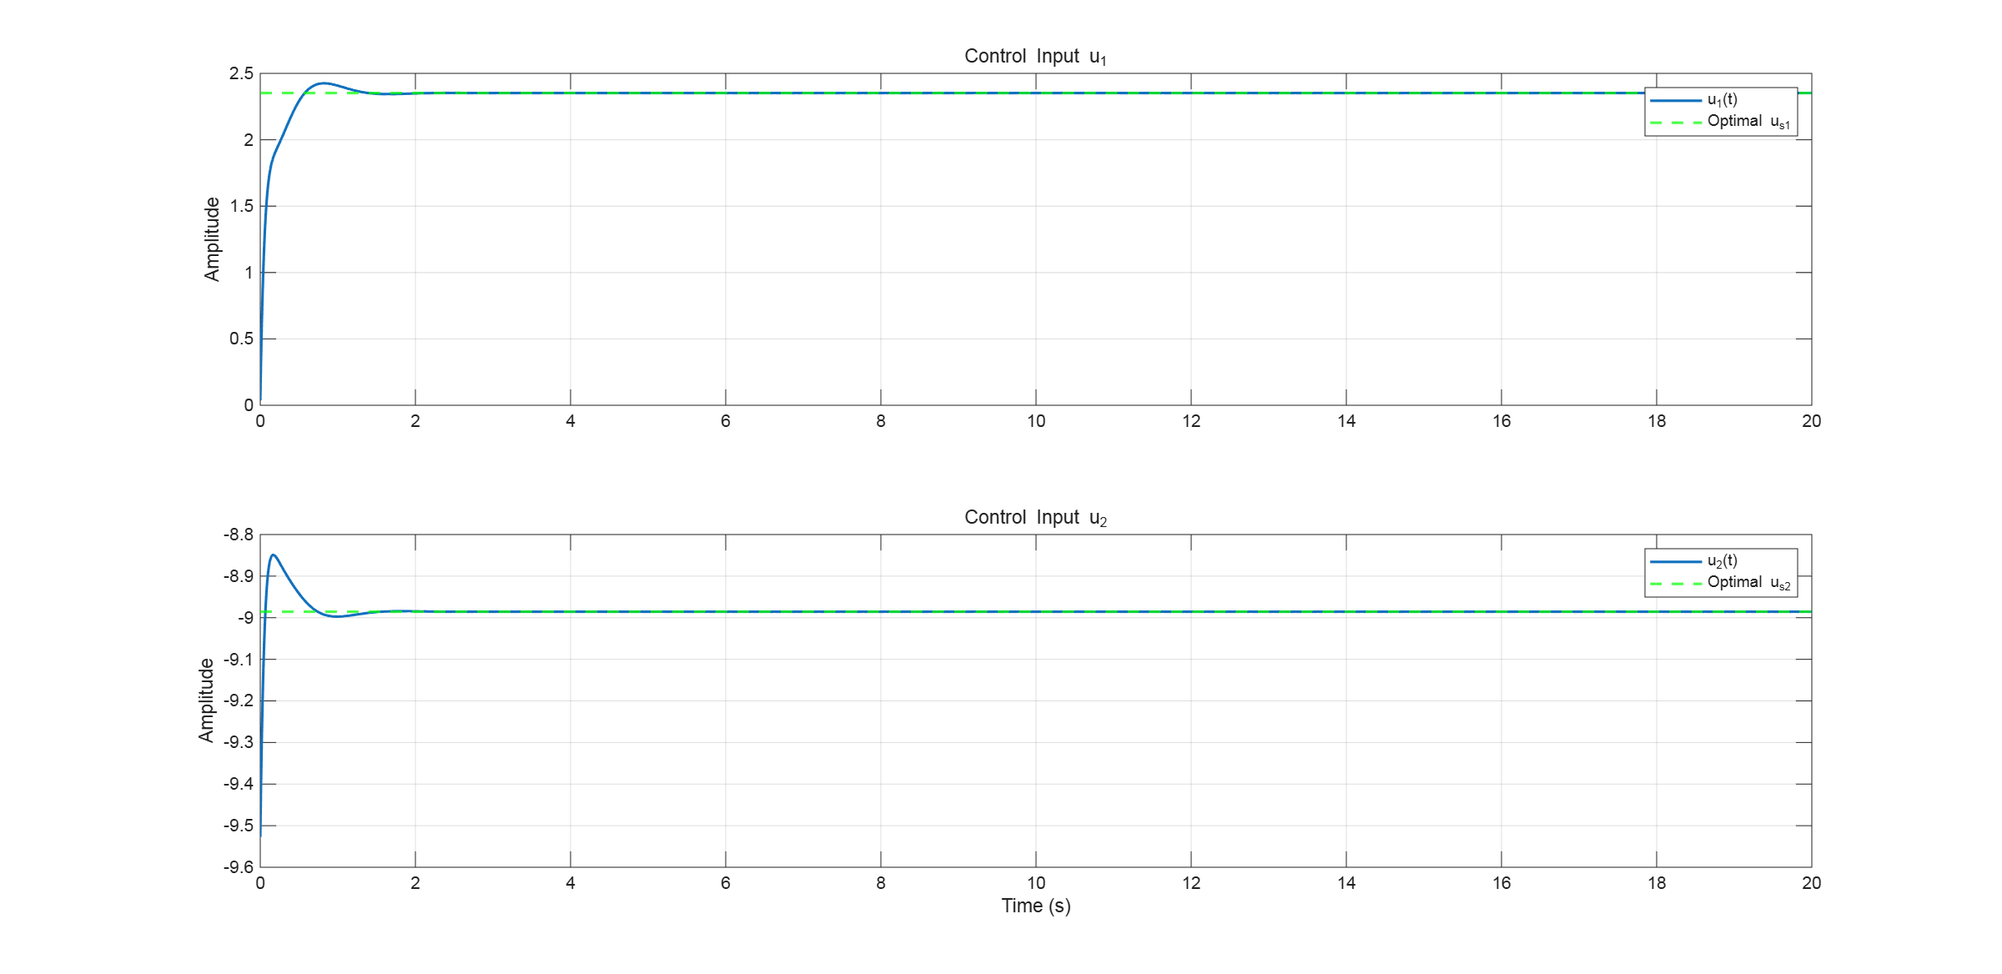
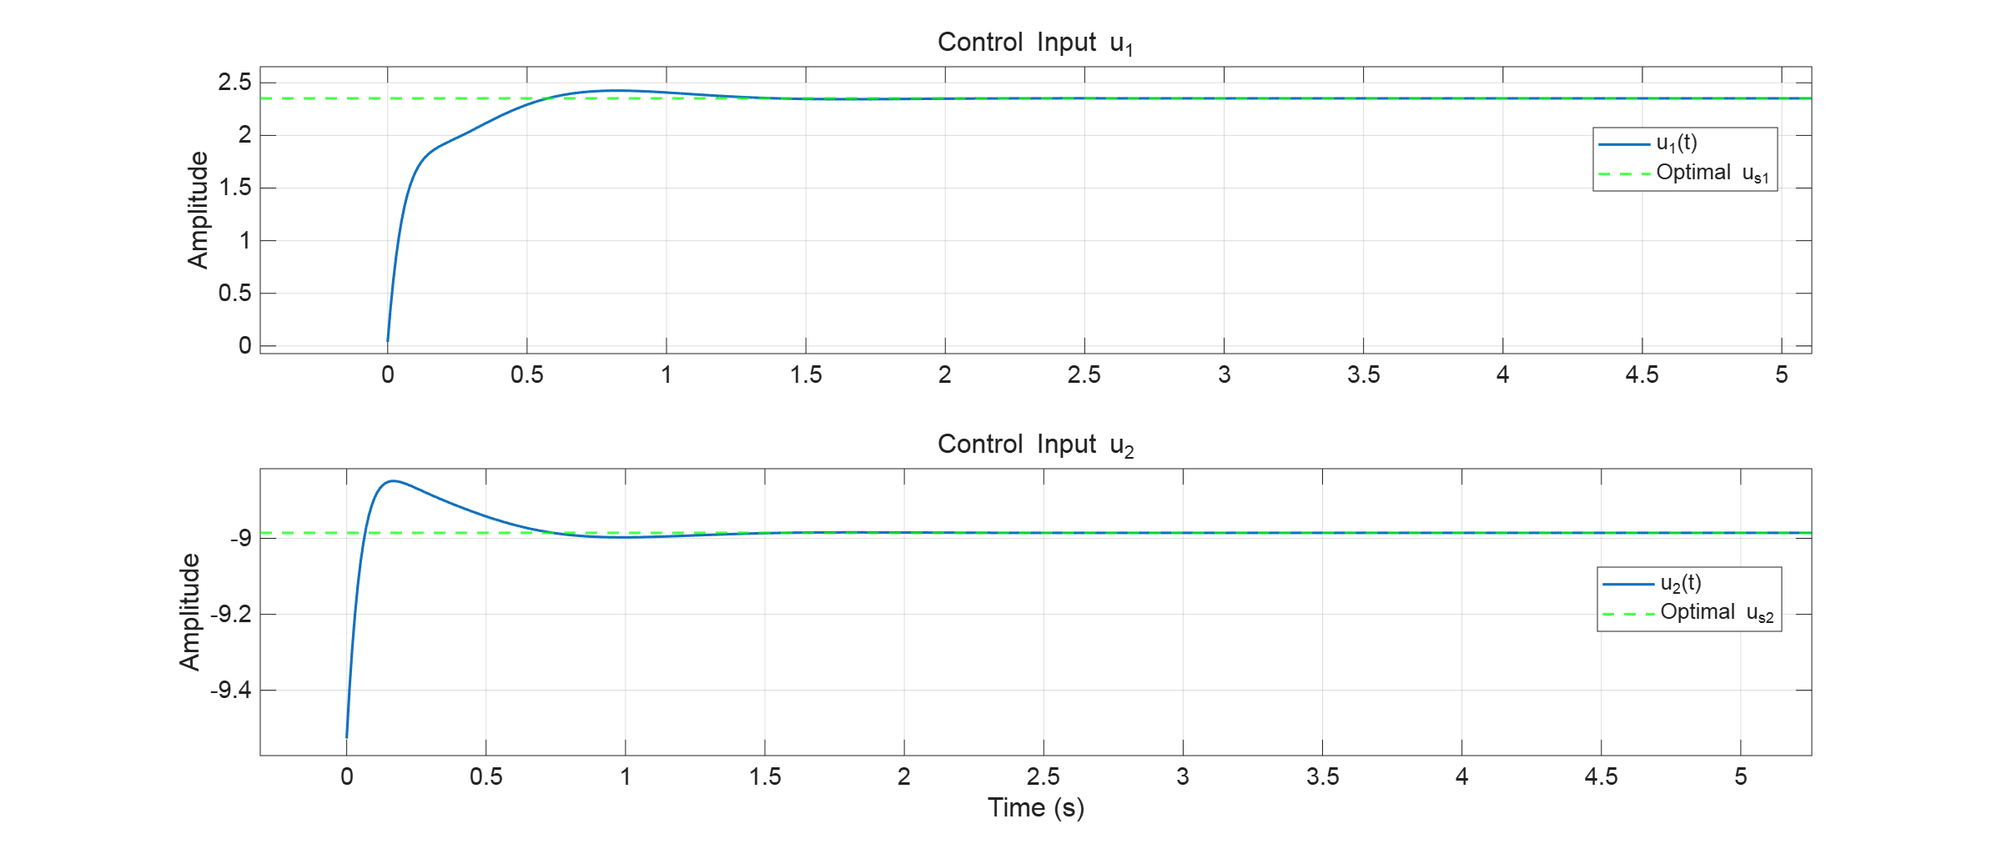
补充任务1的readme，更新任务6

diff --git a/task6/task6_state_control_optimization.m b/task6/task6_state_control_optimization.m
@@ -12,6 +12,8 @@
 % - Tracking/Regulation Control Law: Chapter 9
 
 clear; clc; close all;
+set(0, 'defaultAxesFontSize', 14); % Affects the scale and labels on the axes
+set(0, 'defaultTextFontSize', 14);  % Affects text such as titles, axis labels, legends, etc.
 
 %% 1. System Definition and Parameters
 % --- User-specific parameters (a=8, b=4, c=0, d=1) ---

diff --git a/task6/task6_readme.md b/task6/task6_readme.md
@@ -7,32 +7,66 @@ Task 6: State Regulation and Optimization Report
 
 ## Introduction
 
-The primary objective of Task 6 is to investigate the direct regulation of the system's four internal state variables, rather than solely controlling the outputs. Specifically, the goal is to maintain the state vector $x$ at a specific steady-state setpoint $x_{sp} = [0, 0.5, -0.4, 0.3]^T$. This presents a more challenging scenario than output regulation because the number of state variables (four) exceeds the number of control inputs (two), leading to an overdetermined system in terms of equilibrium constraints. Consequently, the task requires a rigorous feasibility analysis to determine if the target state is physically attainable. Upon confirming that the exact target is unreachable due to the system's physical structure, the problem transforms into an optimization challenge. The aim shifts to finding the optimal reachable steady state $x_s^*$ that minimizes a weighted quadratic cost function $J(x_s)$, balancing the errors between different states according to their importance derived from the matriculation number parameters.
+Task 6's primary objective extends beyond the study of control outputs to encompass the direct regulation of the system's four internal state variables. Specifically, the state vector $x$ must be maintained at a specific steady-state setpoint $x_{sp} = [0, 0.5, -0.4, 0.3]^T$. Consequently, this task requires rigorous feasibility analysis to establish whether the target state is physically attainable. If it is confirmed that precise attainment of the target is impossible due to the system's physical structure, the problem transforms into an optimisation task: finding the optimal reachable steady state $x_s^*$ that minimises the weighted quadratic cost function $J(x_s)$, thereby balancing errors across different states.
 
-> 任务6的主要目标是研究系统四个内部状态变量的直接调节，而不仅仅是控制输出。具体而言，目标是将状态向量 $x$ 维持在特定的稳态设定点 $x_{sp} = [0, 0.5, -0.4, 0.3]^T$。这比输出调节更具挑战性，因为状态变量的数量（4个）超过了控制输入的数量（2个），导致在平衡约束方面出现超定系统。因此，该任务需要进行严格的可行性分析，以确定目标状态在物理上是否可达。在确认由于系统的物理结构导致无法精确达到目标后，该问题转化为一个优化挑战。目标转变为寻找最优的可达稳态 $x_s^*$，使其最小化加权二次代价函数 $J(x_s)$，根据学号参数导出的重要性来权衡不同状态之间的误差。
+> 任务6的主要目标不仅仅是研究控制输出，而且要研究系统四个内部状态变量的直接调节。具体而言，需要将状态向量 $x$ 维持在特定的稳态设定点 $x_{sp} = [0, 0.5, -0.4, 0.3]^T$。因此，该任务需要进行严格的可行性分析，以确定目标状态在物理上是否可达。如果确认由于系统的物理结构导致无法精确达到目标后，该问题将转化为一个优化问题，寻找最优的可达稳态 $x_s^*$，使其最小化加权二次代价函数 $J(x_s)$来权衡不同状态之间的误差。
 
 ## Tasks Solvement
 
 
 
-The solution strategy begins with a fundamental analysis of the system's equilibrium points based on the linear system theory presented in **Chapter 7**. For a linear time-invariant system described by $\dot{x} = Ax + Bu$, a steady state implies that the rate of change of the state vector is zero. Therefore, to maintain the system at the target setpoint $x_{sp}$, there must exist a constant control input $u_{ss}$ that satisfies the equilibrium equation $0 = A x_{sp} + B u_{ss}$. This can be rearranged into a linear algebraic form $B u_{ss} = -A x_{sp}$. Using MATLAB, we analyzed the rank of the control input matrix $B$ and the augmented matrix $[B, -A x_{sp}]$. The results indicated that while the rank of $B$ is 2, the rank of the augmented matrix is 3. According to the Rouché–Capelli theorem, this discrepancy confirms that the target vector $-A x_{sp}$ does not lie within the column space of $B$, rendering the exact regulation to $x_{sp}$ theoretically infeasible1.
+First, a fundamental analysis of the system's equilibrium point is conducted. For a linear time-invariant system described by $\dot{x} = Ax + Bu$, steady state implies that the rate of change of the state vector is zero. Therefore, to maintain the system at the target setpoint $x_{sp}$, a constant control input $u_{ss}$ must exist that satisfies the equilibrium Equation（）
 
-> 解决策略首先基于**第7章**中介绍的线性系统理论，对系统的平衡点进行基础分析。对于由 $\dot{x} = Ax + Bu$ 描述的线性时不变系统，稳态意味着状态向量的变化率为零。因此，为了将系统维持在目标设定点 $x_{sp}$，必须存在满足平衡方程 $0 = A x_{sp} + B u_{ss}$ 的恒定控制输入 $u_{ss}$。这可以重排为线性代数形式 $B u_{ss} = -A x_{sp}$。利用 MATLAB，我们分析了控制输入矩阵 $B$ 和增广矩阵 $[B, -A x_{sp}]$ 的秩。结果表明，虽然 $B$ 的秩为 2，但增广矩阵的秩为 3。根据鲁谢-卡佩利定理（Rouché–Capelli theorem），这一差异证实了目标向量 $-A x_{sp}$ 不在 $B$ 的列空间内，使得精确调节到 $x_{sp}$ 在理论上不可行 2。
+$0 = Ax_{sp} + Bu_{ss}$.
 
-Given the infeasibility of the original target, we formulated a constrained optimization problem to find the best achievable steady state. We defined a cost function $J(x_s) = \frac{1}{2}(x_s - x_{sp})^T W (x_s - x_{sp})$, where $W$ is a diagonal weight matrix derived from the student ID parameters ($a=8, b=4, c=0, d=1$), resulting in $W = \text{diag}(9, 5, 1, 2)$. This formulation draws parallels to the **Quadratic Optimal Control (LQR)** concepts discussed in **Chapter 8**, where a weighted quadratic form is used to penalize deviations3. To solve this, we derived the mapping between steady-state input and state using the relationship $x_s = -A^{-1}B u_s$, denoting $M = -A^{-1}B$. Substituting this into the cost function transforms the problem into an unconstrained minimization with respect to the input $u_s$. By setting the gradient of the objective function to zero, we derived the analytical solution for the optimal steady-state input as $u_s^* = (M^T W M)^{-1} M^T W x_{sp}$. Using MATLAB matrix operations, the optimal steady state $x_s^*$ was calculated, resulting in a minimum cost value of approximately $0.218$. The numerical results showed that states with higher weights (e.g., $x_1$ with weight 9) converged very close to the target, while states with lower weights (e.g., $x_3$ with weight 1) exhibited larger deviations, validating the optimization logic.
+This can be rearranged into the linear algebraic form $Bu_{ss} = -Ax_{sp}$. Using MATLAB, this project analysed the rank of the control input matrix $B$ and the augmented matrix $[B, -A x_{sp}]$. Results indicate that while $B$ has rank 2, the augmented matrix possesses rank 3. According to the Rouché–Capelli theorem, this discrepancy indicates that the target vector $-A x_{sp}$ does not lie within the column space of $B$, rendering precise adjustment to $x_{sp}$ theoretically infeasible.
 
-> 鉴于原始目标不可行，我们制定了一个约束优化问题来寻找最佳可达稳态。我们定义了代价函数 $J(x_s) = \frac{1}{2}(x_s - x_{sp})^T W (x_s - x_{sp})$，其中 $W$ 是根据学号参数 ($a=8, b=4, c=0, d=1$) 导出的对角权重矩阵，结果为 $W = \text{diag}(9, 5, 1, 2)$。该公式与**第8章**中讨论的**二次最优控制 (LQR)** 概念相似，即使用加权二次型来惩罚偏差 4。为了解决这个问题，我们利用关系式 $x_s = -A^{-1}B u_s$ 推导了稳态输入与状态之间的映射，令 $M = -A^{-1}B$。将其代入代价函数，问题转化为关于输入 $u_s$ 的无约束最小化问题。通过令目标函数的梯度为零，我们推导出了最优稳态输入的解析解 $u_s^* = (M^T W M)^{-1} M^T W x_{sp}$。利用 MATLAB 矩阵运算，计算出最优稳态 $x_s^*$，最小代价约为 $0.218$。数值结果表明，权重较高的状态（如权重为 9 的 $x_1$）收敛得非常接近目标，而权重较低的状态（如权重为 1 的 $x_3$）表现出较大的偏差，验证了优化逻辑。
+> 首先对系统的平衡点进行基础分析。对于由 $\dot{x} = Ax + Bu$ 描述的线性时不变系统，稳态意味着状态向量的变化率为零。因此，为了将系统维持在目标设定点 $x_{sp}$，必须存在满足平衡方程 $0 = A x_{sp} + B u_{ss}$ 的恒定控制输入 $u_{ss}$。这可以重排为线性代数形式 $B u_{ss} = -A x_{sp}$。利用 MATLAB，本项目分析了控制输入矩阵 $B$ 和增广矩阵 $[B, -A x_{sp}]$ 的秩。结果表明，虽然 $B$ 的秩为 2，但增广矩阵的秩为 3。根据鲁谢-卡佩利定理（Rouché–Capelli theorem），这一差异表明了目标向量 $-A x_{sp}$ 不在 $B$ 的列空间内，使得精确调节到 $x_{sp}$ 在理论上不可行。
 
-To implement the control strategy, we designed a controller that ensures asymptotic convergence to the calculated optimal steady state $x_s^*$. The control structure integrates a feedforward component for equilibrium maintenance and a feedback component for stabilization, conceptually aligned with the servo control principles in **Chapter 9**5. The control law is defined as $u(t) = u_s^* - K(x(t) - x_s^*)$, where $u_s^*$ provides the necessary energy to maintain the optimal steady state, and the feedback gain $K$ stabilizes the error dynamics. The gain matrix $K$ was calculated using the LQR method to ensure robust transient performance. Simulation results demonstrated that starting from the initial condition $x_0$, the state trajectories smoothly converged to and settled exactly at $x_s^*$, and the control inputs stabilized at $u_s^*$. This confirms that the combination of static optimization and dynamic feedback control effectively regulates the system to the best possible operating point under physical constraints.
+As the original objective proved unfeasible, this project formulated a constrained optimisation problem to identify the optimal achievable steady state. The cost function is defined as:
 
-> 为了实施控制策略，我们设计了一个控制器，以确保渐近收敛到计算出的最优稳态 $x_s^*$。该控制结构集成了用于维持平衡的前馈分量和用于稳定的反馈分量，在概念上与**第9章**中的伺服控制原理一致 6。控制律定义为 $u(t) = u_s^* - K(x(t) - x_s^*)$，其中 $u_s^*$ 提供维持最优稳态所需的能量，反馈增益 $K$ 用于稳定误差动态。增益矩阵 $K$ 使用 LQR 方法计算，以确保鲁棒的瞬态性能。仿真结果表明，从初始条件 $x_0$ 开始，状态轨迹平滑收敛并精确稳定在 $x_s^*$，控制输入稳定在 $u_s^*$。这证实了静态优化与动态反馈控制的结合，有效地将系统调节到了物理约束下的最佳工作点。
+$J(x_s) = \frac{1}{2}(x_s - x_{sp})^T W (x_s - x_{sp})$,
+
+Where $W$ is the diagonal weight matrix derived from the student ID parameters, yielding $W = \text{diag}(9, 5, 1, 2)$. In order to address this issue, this project utilised the relationship $x_s = -A^{-1}B u_s$ to derive the mapping between steady-state inputs and states, setting $M = -A^{-1}B$. Substituting this into the cost function transforms the problem into an unconstrained minimisation problem concerning the input $u_s$. The analytical solution for the optimal steady-state input is derived by setting the gradient of the objective function to zero:
+
+ $u_s^* = (M^T W M)^{-1} M^T W x_{sp}$.
+
+Subsequently, using MATLAB matrix operations, the optimal steady-state $x_s^*$ was computed, with a minimum cost of approximately $0.218$. The numerical results indicate that states with higher weights like $x_1$ with weight 9 converge very close to the target, while states with lower weights like $x_3$ with weight 1 exhibit significant deviation, thereby validating the optimisation logic.
+
+> 由于原始目标不可行，本项目制定了一个约束优化问题来寻找最佳可达稳态。定义代价函数为
+> 
+>  $J(x_s) = \frac{1}{2}(x_s - x_{sp})^T W (x_s - x_{sp})$
+> 
+> 其中 $W$ 是根据学号参数 ($a=8, b=4, c=0, d=1$) 导出的对角权重矩阵，结果为 $W = \text{diag}(9, 5, 1, 2)$。为了解决这个问题，本项目利用关系式 $x_s = -A^{-1}B u_s$ 推导了稳态输入与状态之间的映射，令 $M = -A^{-1}B$。将其代入代价函数，问题转化为关于输入 $u_s$ 的无约束最小化问题。通过令目标函数的梯度为零来推导出了最优稳态输入的解析解：
+> 
+>  $u_s^* = (M^T W M)^{-1} M^T W x_{sp}$
+> 
+> 利用 MATLAB 矩阵运算，计算出最优稳态 $x_s^*$，最小代价约为 $0.218$。数值结果表明，权重较高的状态（如权重为 9 的 $x_1$）收敛得非常接近目标，而权重较低的状态（如权重为 1 的 $x_3$）表现出较大的偏差，验证了优化逻辑。
+
+Finally, this project designed a controller to implement the control strategy and ensure asymptotic convergence to the computed optimal steady-state $x_s^*$. This control structure integrates a feedforward component for maintaining equilibrium and a feedback component for stability. The control law is defined as:
+
+ $u(t) = u_s^* - K(x(t) - x_s^*)$,
+
+Where $u_s^*$ provides the energy required to maintain the optimal steady state, and the feedback gain $K$ is employed to stabilise the error dynamics. The gain matrix $K$ is computed using the LQR method to ensure robust transient performance.
+
+The simulation results are shown in Figures 2-13, 2-14. Starting from the initial condition $x_0$, the state track converges smoothly and stabilises precisely at $x_s^*$, whilst the control input stabilises at $u_s^*$.
+
+> 最后，本项目设计了一个控制器来实施控制策略，并确保渐近收敛到计算出的最优稳态 $x_s^*$。该控制结构集成了用于维持平衡的前馈分量和用于稳定的反馈分量，控制律定义为：
+> 
+>  $u(t) = u_s^* - K(x(t) - x_s^*)$
+> 
+> 其中 $u_s^*$ 提供维持最优稳态所需的能量，反馈增益 $K$ 用于稳定误差动态。增益矩阵 $K$ 使用 LQR 方法计算，以确保鲁棒的瞬态性能。
+> 
+> 仿真结果如图2-13，2-14所示，从初始条件 $x_0$ 开始，状态轨迹平滑收敛并精确稳定在 $x_s^*$，控制输入稳定在 $u_s^*$。~~这证实了静态优化与动态反馈控制的结合，有效地将系统调节到了物理约束下的最佳工作点。~~
 
 ## Discussion and Conclusion
 
-Task 6 provided a comprehensive synthesis of linear system theory, bridging the gap between theoretical feasibility analysis and practical control implementation. The impossibility of meeting the original setpoint highlighted a critical engineering reality: actuators often have limited degrees of freedom compared to the system's complexity (number of states). The optimization process successfully demonstrated how weighting matrices can be strategically used to prioritize critical performance variables when trade-offs are inevitable. Specifically, the high accuracy achieved for state $x_1$ versus the larger error accepted for $x_3$ perfectly illustrated the "optimization under constraints" paradigm. Furthermore, the successful stabilization at the calculated optimal point validated the effectiveness of combining steady-state feedforward control with optimal state feedback.
+Task 6 comprehensively applied the entire linear system theory, revealing discrepancies between theoretical feasibility analysis and practical control implementation. The unavailability of meeting the original setpoint also demonstrated that actuators typically possess finite degrees of freedom relative to the system's complexity. The optimisation process within this project also successfully demonstrated the strategic use of weighting matrices to prioritise critical performance variables amidst unavoidable trade-offs: achieving high precision for state $x_1$ while permitting greater error tolerance for $x_3$.
 
-> 任务6提供了线性系统理论的综合应用，弥合了理论可行性分析与实际控制实施之间的差距。无法满足原始设定点这一事实凸显了一个关键的工程现实：与系统的复杂性（状态数量）相比，执行器通常具有有限的自由度。优化过程成功展示了在不可避免的权衡中，如何策略性地使用权重矩阵来优先考虑关键的性能变量。具体而言，状态 $x_1$ 实现的高精度与 $x_3$ 接受的较大误差完美诠释了“约束下的优化”范式。此外，在计算出的最优点的成功稳定，验证了结合稳态前馈控制与最优状态反馈的有效性。
+Furthermore, the calculated optimal point successfully stabilised the system, validating the effectiveness of combining steady-state feedforward control with optimal state feedback.
 
-This concludes the entire mini-project. Through the six tasks, we have systematically explored pole placement, LQR, observer design, decoupling, servo control, and state regulation. Each task built upon the previous theories, culminating in this final optimization problem that required a holistic understanding of system dynamics, controllability, and steady-state analysis. The simulation results across all tasks confirm the correctness of the derived models and control laws, fulfilling all project requirements.
+> 任务6综合运用整个线性系统理论，发现了理论可行性分析与实际控制实施之间的差距，无法满足原始设定点的情况也表明了与系统的复杂性（状态数量）相比，执行器通常具有有限的自由度。本项目的优化过程也成功展示了在不可避免的权衡中，如何策略性地使用权重矩阵来优先考虑关键的性能变量：状态 $x_1$ 实现高精度与 $x_3$ 接受较大误差。此外，在计算出的最优点成功让系统稳定，也验证了结合稳态前馈控制与最优状态反馈的有效性。
 
-> 整个 Mini-project 到此结束。通过这六个任务，我们系统地探索了极点配置、LQR、观测器设计、解耦、伺服控制和状态调节。每个任务都建立在之前的理论基础之上，最终汇聚成这个需要对系统动力学、可控性和稳态分析有整体理解的优化问题。所有任务的仿真结果证实了推导模型和控制律的正确性，满足了所有项目要求。
+In summary, these 6 tasks systematically explore pole placement, LQR, observer design, decoupling, servo control, and state regulation. Each task builds upon its predecessor, ultimately converging into an optimisation problem that demands a holistic understanding of system dynamics, controllability, and steady-state analysis.
+
+> 总的来说，这六个任务系统地探索了极点配置、LQR、观测器设计、解耦、伺服控制和状态调节，并且几乎每个任务都建立在之前的任务基础之上，最终汇聚成这个需要对系统动力学、可控性和稳态分析有整体理解的优化问题。

diff --git a/task1/task1_readme.md b/task1/task1_readme.md
@@ -112,7 +112,17 @@ Finally, the system step response was simulated and analysed to validate the per
 
 > 其次，分别对每个输入通道施加单位阶跃来评估闭环系统的阶跃响应。输出响应也表明性能指标已符合要求，所有输出的稳定时间都远小于5秒，且超调量极小，远低于10%的限制，如下图所示。因此验证了极点配置设计的有效性。
 
-![bd7adb88-bfab-4887-8da4-2bf410061533](file:///C:/Users/16612/Pictures/Typedown/bd7adb88-bfab-4887-8da4-2bf410061533.png)
+![bd7adb88-bfab-4887-8da4-2bf410061533](file:///C:/Users/16612/Pictures/Typedown/bd7adb88-bfab-4887-8da4-2bf410061533.png)In designing the state feedback controller, this project balanced Speed against Cost:
+
+
+
+The system's settling time is inversely proportional to the absolute value of the real part of the main pole. Thus, shifting the pole further into the left-half plane for example, from -0.4 to -1.0, significantly accelerates system convergence and reduces settling time. However, a more aggressive pole requires a larger feedback gain matrix $K$. According to the control law $u = -Kx$, increasing the gain causes the amplitude of the control input signals ($u_1, u_2$) to rise sharply. In this design, the initial control signal peak is approximately 140 as shown in Figure 2-3. If the poles are set too aggressively, the control signals may exceed the physical limits of the VGT and EGR actuators, leading to the failure of linear control.
+
+
+
+> 在设计状态反馈控制器时，本项目在响应速度（Speed）**与**控制代价（Cost）之间进行了权衡：
+> 
+> 系统的调节时间（Settling Time）与主极点实部的绝对值成反比（$t_s \approx 4/|\sigma|$）。将极点进一步移向左半平面（例如从 -0.4 移至 -1.0）虽然能显著加快系统收敛速度，缩短调节时间。然而，更快的极点需要更大的反馈增益矩阵 $K$。根据控制律 $u = -Kx$，增益的增大会导致控制输入信号（$u_1, u_2$）的幅值剧烈增加。在本设计中，初始控制信号峰值约为 140（如 Figure 2-3 所示）。如果极点过于激进，控制信号可能超过 VGT 和 EGR 执行器的物理限制（即发生**执行器饱和**），导致线性控制失效。
 
 ## 3. Discussion and Conclusion
 
